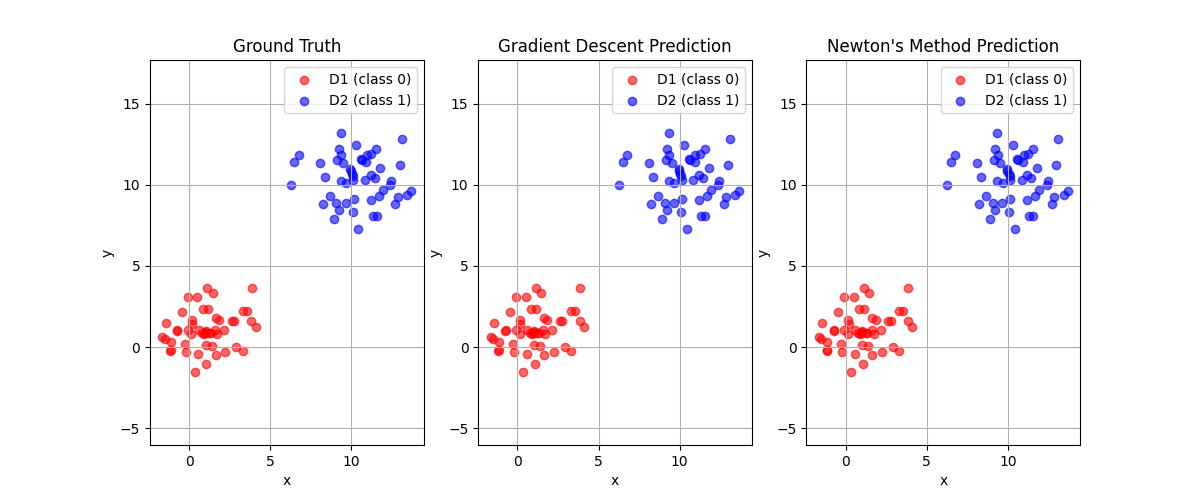
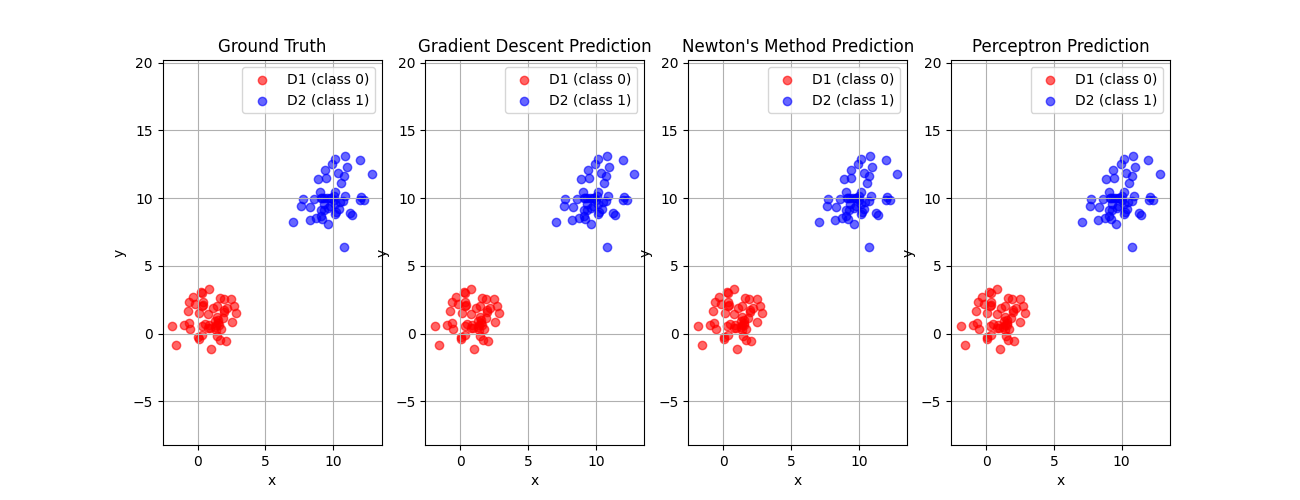
update lab4 ver3

diff --git a/Lab4/logistic_regression.py b/Lab4/logistic_regression.py
@@ -73,6 +73,8 @@ X = np.vstack([
     np.hstack([np.ones((n, 1)), D1]),
     np.hstack([np.ones((n, 1)), D2])
 ])
+#print(X[0])
+#print(X.shape)  # shape: (2n, 3)
 y = np.array([0]*n + [1]*n).reshape(-1, 1) #[0, 1, 0, 1, ...] shape: (2n, 1)
 #print(y[:5])  # Print first 5 labels
 #print(y.shape)  # shape: (2n, 1)
@@ -82,9 +84,11 @@ eta = 0.01  # Learning rate
 epoch = 10000  # Number of epochs for gradient descent
 w_grad, p_grad = op.gradient_descent(w, X, y, eta, epoch)
 w_newton, p_newton = op.newtons_method(w, X, y, eta, epoch)
+w_per, p_per = op.perceptron(w, X, y, eta, epoch)
 
 pred_grad = np.where(p_grad >= 0.5, 1, 0)  # shape: (2n, 1)
 pred_newton = np.where(p_newton >= 0.5, 1, 0)  # shape: (2n, 1)
+pred_per = np.where(p_per == 1, 1, 0)  # shape: (2n, 1)
 
 print()
 print("Gradient Descent:")
@@ -92,10 +96,13 @@ grad_tp, grad_tn, grad_fp, grad_fn, grad_sensitivity, grad_specificity = confusi
 print("----------------------------------------------------------------------")
 print("Newton's Method:")
 newton_tp, newton_tn, newton_fp, newton_fn, newton_sensitivity, newton_specificity = confusion_matrix(y, pred_newton, w_newton)
+print("----------------------------------------------------------------------")
+print("Perceptron:")
+per_tp, per_tn, per_fp, per_fn, per_sensitivity, per_specificity = confusion_matrix(y, p_per, w_per)
 
-plt.figure(figsize=(12, 5))  
+plt.figure(figsize=(13, 5))  
 # Ground Truth
-plt.subplot(1, 3, 1)
+plt.subplot(1, 4, 1)
 plt.scatter(D1[:, 0], D1[:, 1], color='red', label='D1 (class 0)', alpha=0.6)
 plt.scatter(D2[:, 0], D2[:, 1], color='blue', label='D2 (class 1)', alpha=0.6)
 plt.title("Ground Truth")
@@ -106,7 +113,7 @@ plt.grid(True)
 plt.axis('equal')
 
 # Predicted Classification using Gradient Descent
-plt.subplot(1, 3, 2)
+plt.subplot(1, 4, 2)
 # 把 X 中的點根據預測類別分開（記得 X 有加 bias，要畫的是 X[:,1], X[:,2]）
 plt.scatter(X[pred_grad.flatten() == 0][:, 1], X[pred_grad.flatten() == 0][:, 2], color='red', label='D1 (class 0)', alpha=0.6)
 plt.scatter(X[pred_grad.flatten() == 1][:, 1], X[pred_grad.flatten() == 1][:, 2], color='blue', label='D2 (class 1)', alpha=0.6)
@@ -118,7 +125,7 @@ plt.grid(True)
 plt.axis('equal')
 
 # Predicted Classification using Newton's Method
-plt.subplot(1, 3, 3)
+plt.subplot(1, 4, 3)
 # 把 X 中的點根據預測類別分開（記得 X 有加 bias，要畫的是 X[:,1], X[:,2]）
 plt.scatter(X[pred_newton.flatten() == 0][:, 1], X[pred_newton.flatten() == 0][:, 2], color='red', label='D1 (class 0)', alpha=0.6)
 plt.scatter(X[pred_newton.flatten() == 1][:, 1], X[pred_newton.flatten() == 1][:, 2], color='blue', label='D2 (class 1)', alpha=0.6)
@@ -128,7 +135,18 @@ plt.ylabel("y")
 plt.legend()
 plt.grid(True)
 plt.axis('equal')
-#plt.savefig("result_plot/case2.png")
+
+# Predicted Classification using Perceptron
+plt.subplot(1, 4, 4)
+plt.scatter(X[pred_per.flatten() == 0][:, 1], X[pred_per.flatten() == 0][:, 2], color='red', label='D1 (class 0)', alpha=0.6)
+plt.scatter(X[pred_per.flatten() == 1][:, 1], X[pred_per.flatten() == 1][:, 2], color='blue', label='D2 (class 1)', alpha=0.6)
+plt.title("Perceptron Prediction")
+plt.xlabel("x")
+plt.ylabel("y")
+plt.legend()
+plt.grid(True)
+plt.axis('equal')
+plt.savefig("result_plot/case1.png")
 plt.tight_layout()
 plt.show()
 

diff --git a/Lab4/optimization.py b/Lab4/optimization.py
@@ -42,3 +42,21 @@ def newtons_method(w, X, y, eta, epoch):
             break
         i += 1
     return w, p
+
+def perceptron(w, X, y, eta, epoch):
+    for i in range(epoch):
+        w_prev = w.copy()
+        for j in range(X.shape[0]):
+            z = X[j] @ w
+            zi = 1 if z >= 0 else 0  # Activation function
+            if zi != y[j]:
+                w = w + eta * (y[j] - zi) * X[j].reshape(-1, 1)
+        if np.linalg.norm(w - w_prev) < 1e-3:
+            break
+        #if i % 10 == 0:
+            #loss = np.mean(np.maximum(0, 1 - y * (X @ w)))
+            #print(f'Epoch {i}: Loss = {loss:.4f}')
+        i += 1
+    p = np.where(X @ w >= 0, 1, 0)
+    print(p)
+    return w, p
